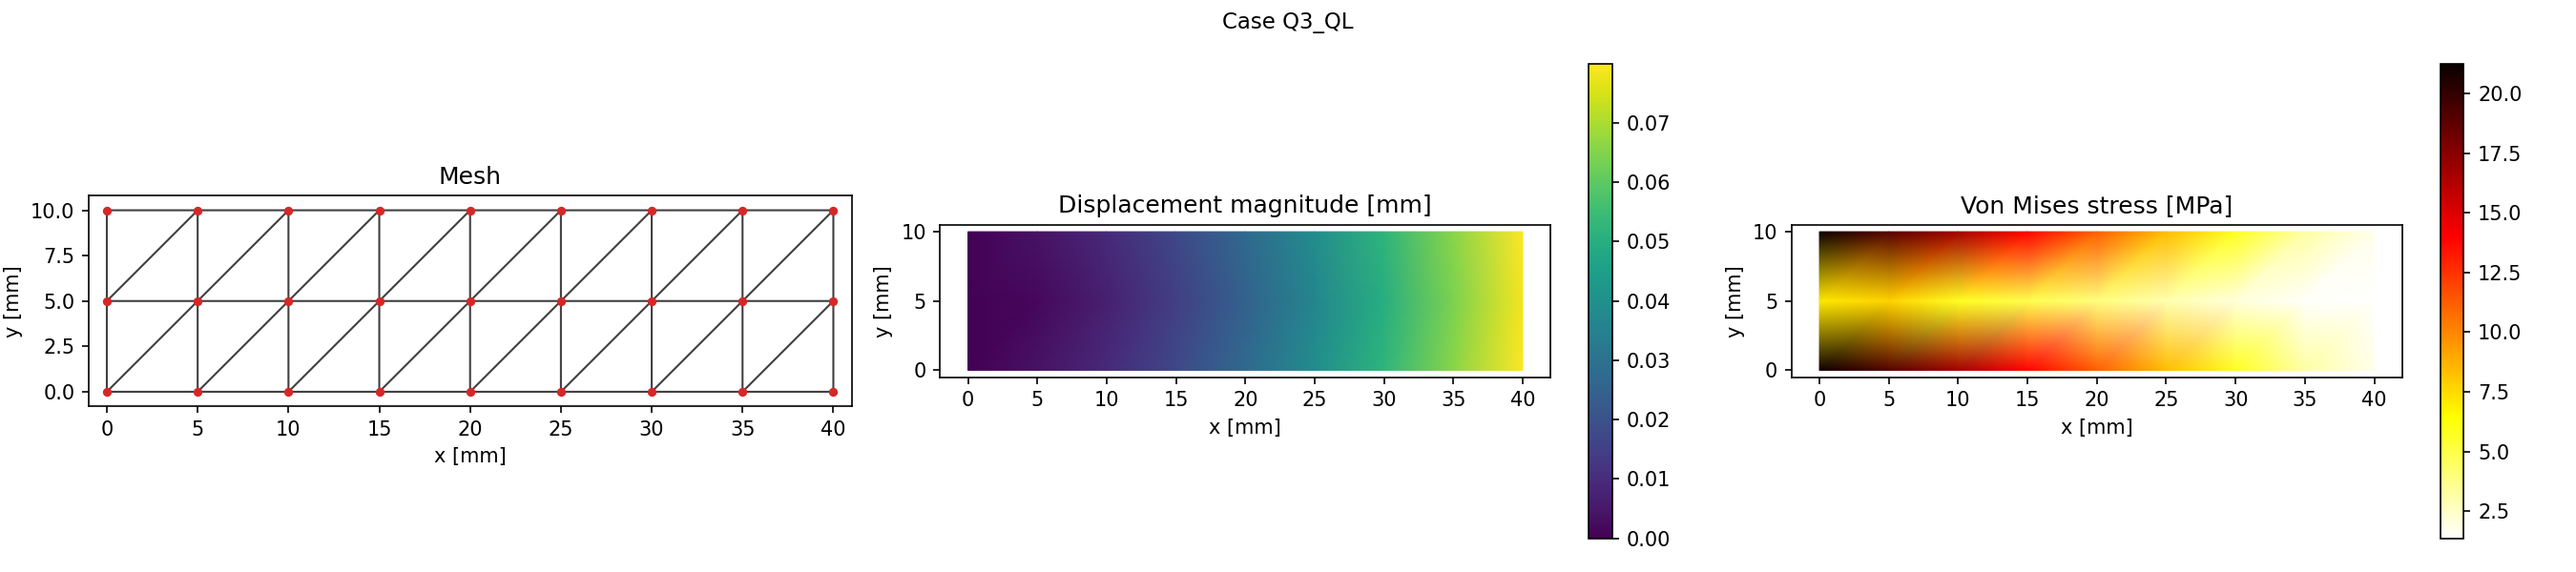
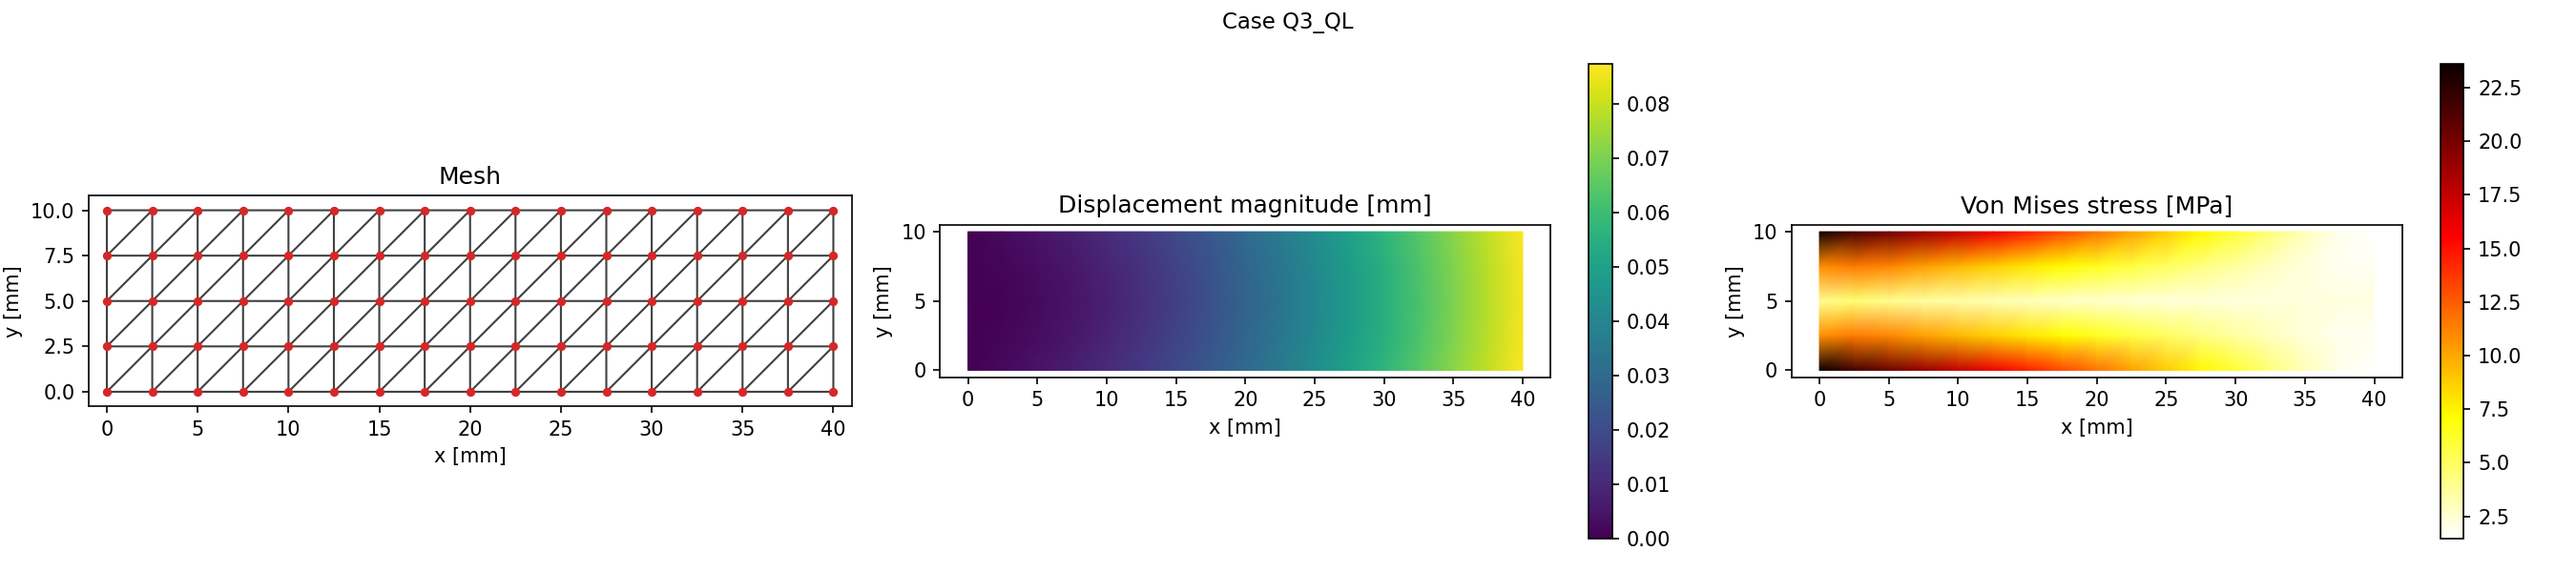
sec 2.1.2: refine Q3/T3 mesh to nx=16 ny=4 for smoother Von Mises stress distribution

diff --git a/sec_02/2.1/2/fem_plane_stress_beam.py b/sec_02/2.1/2/fem_plane_stress_beam.py
@@ -99,10 +99,10 @@ analysis_cases: list[dict[str, str]] = [
 mesh_pattern_cfg: dict[str, dict[str, int]] = {
     "Q1": {"nx": 4, "ny": 1},
     "Q2": {"nx": 4, "ny": 1},
-    "Q3": {"nx": 8, "ny": 2},
+    "Q3": {"nx": 16, "ny": 4},
     "T1": {"nx": 4, "ny": 1},
     "T2": {"nx": 4, "ny": 1},
-    "T3": {"nx": 8, "ny": 2},
+    "T3": {"nx": 16, "ny": 4},
 }
 
 # Parallelogram distortion applied to figure 2.3 distorted patterns Q2/T2.
